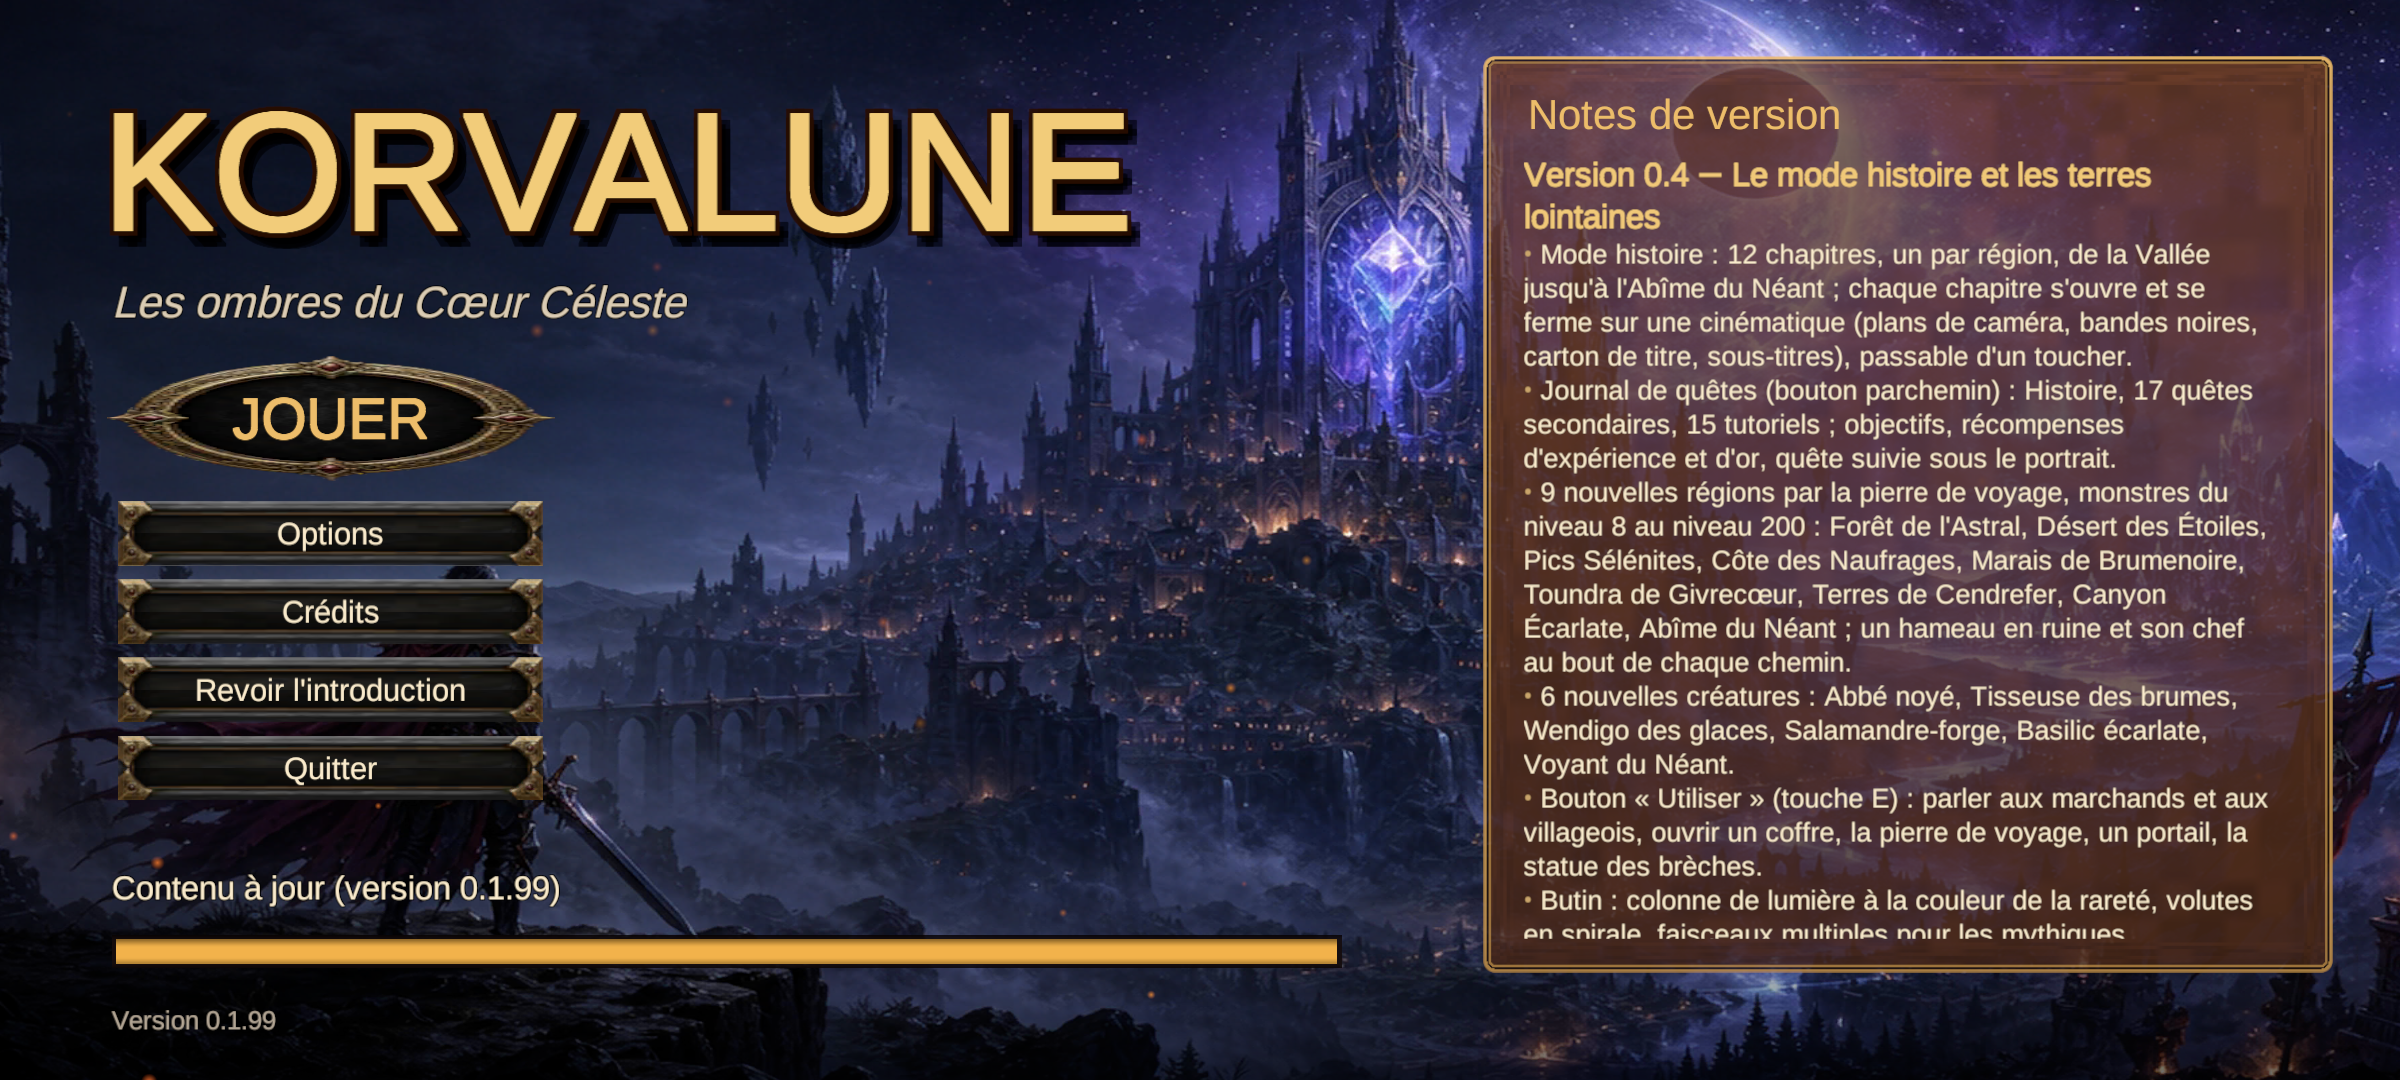
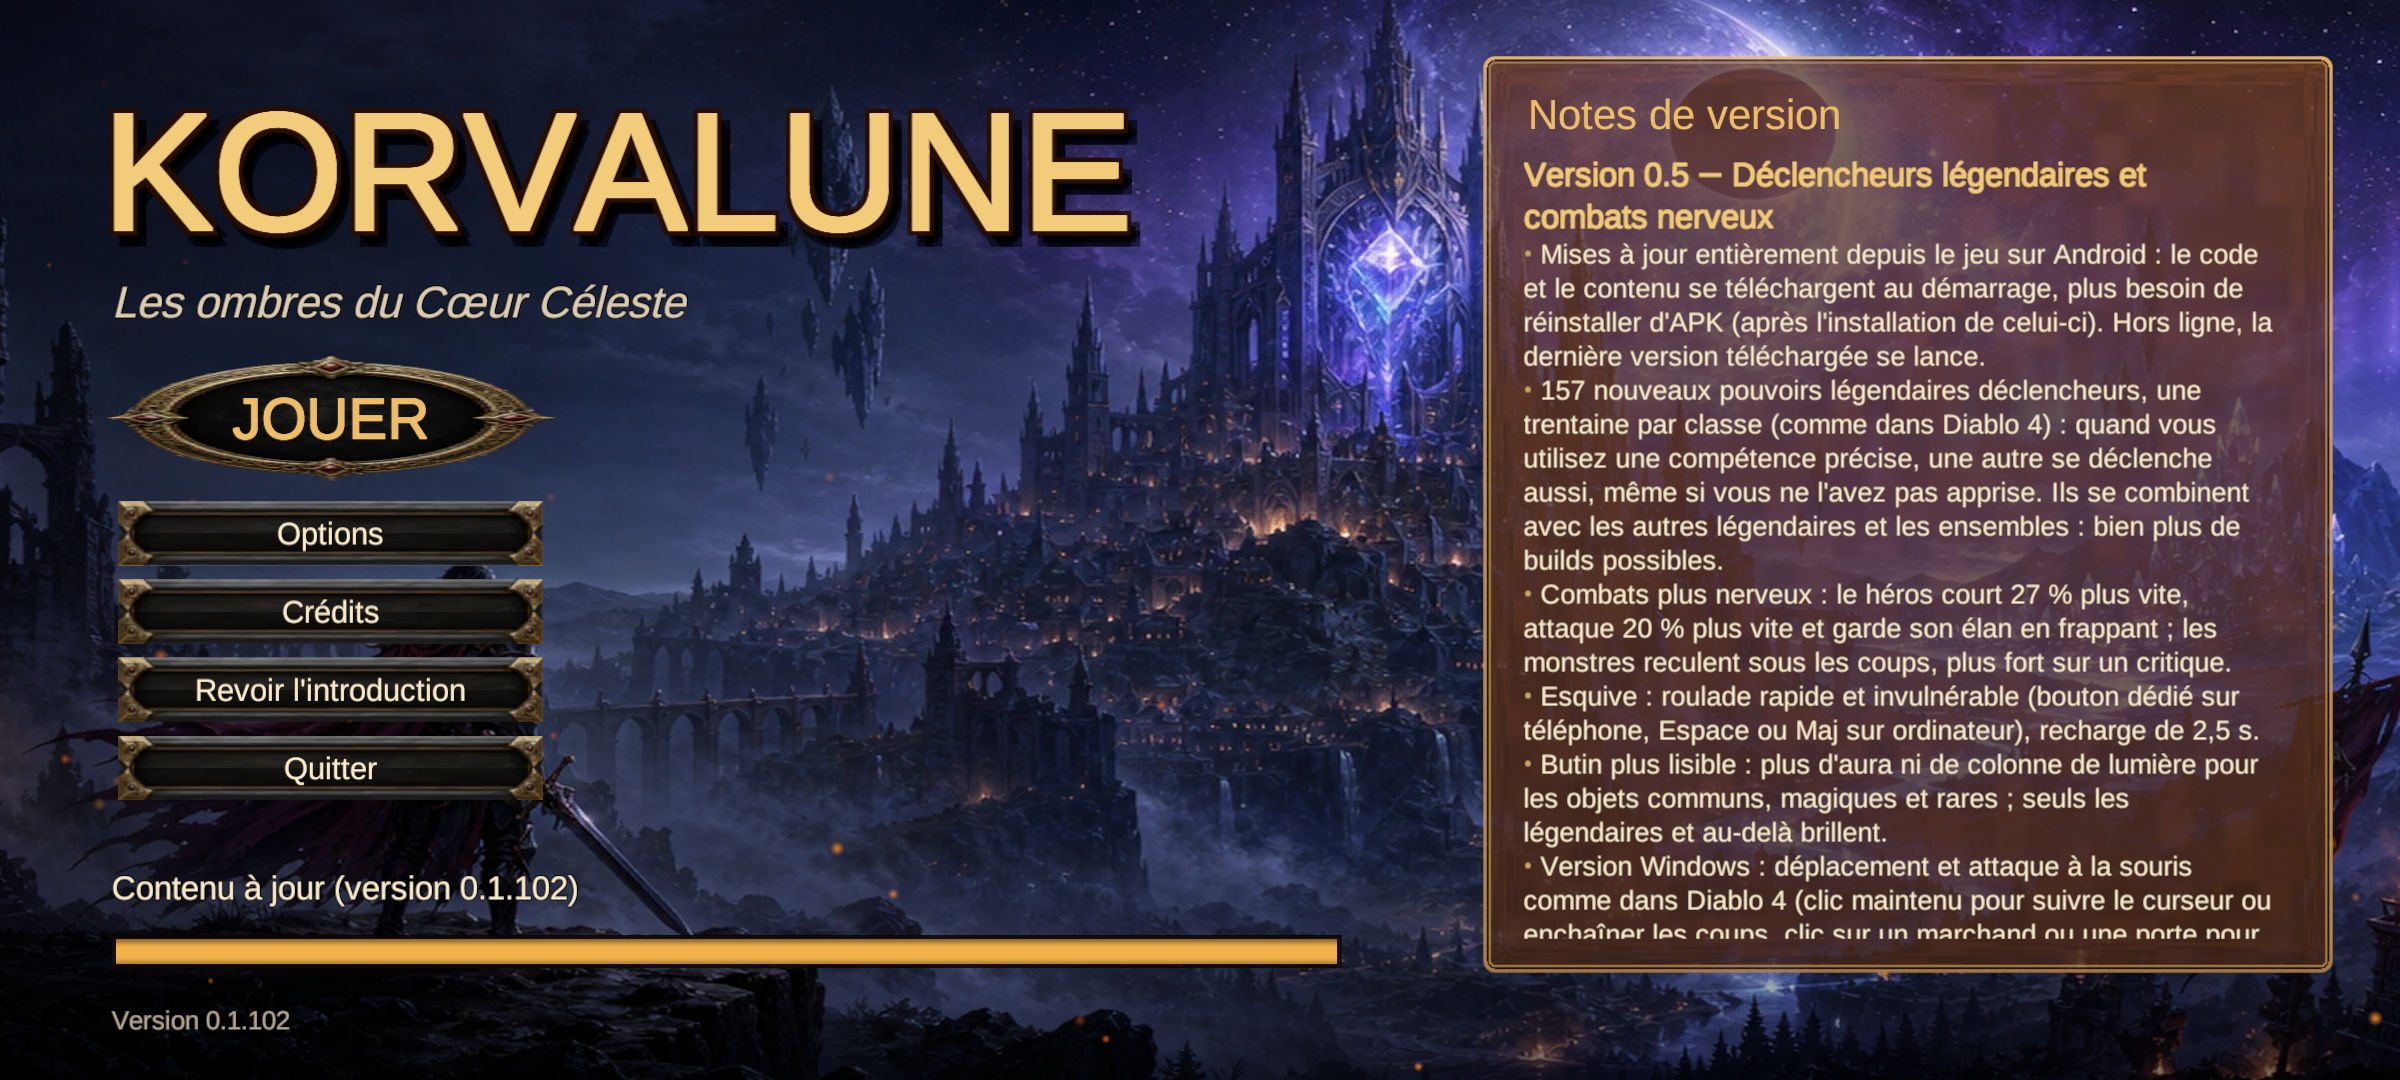
Android : APK construit et testé dans l'émulateur [skip ci]

diff --git a/ci-out/android/build.md b/ci-out/android/build.md
@@ -3,8 +3,8 @@
 - Scènes : Korvalune_Lanceur, Korvalune_Selection, CharacterCreator, Korvalune_Vallee, Korvalune_Crypte, Korvalune_Terriers, Korvalune_Eclipse, Korvalune_Breche, Korvalune_Foret, Korvalune_Desert, Korvalune_Pics, Korvalune_Cote, Korvalune_Marais, Korvalune_Toundra, Korvalune_Volcan, Korvalune_Canyon, Korvalune_Abime
 - Signature : clé Korvalune (mises à jour sans désinstaller)
 - Icône : Assets/Korvalune/Resources/UI/Icone.png
-- Contenu téléchargeable : 100 paquets, 722 Mo (release contenu-99)
-    - scenes : 146.3 Mo
+- Contenu téléchargeable : 100 paquets, 722 Mo (release contenu-102)
+    - scenes : 146.4 Mo
     - art_catalog_models : 58.3 Mo
     - art_catalog_skins : 34.6 Mo
     - art_heroes_varek_f : 19.0 Mo
@@ -16,8 +16,11 @@
     - art_heroes_kaeldraven_f : 17.2 Mo
     - art_heroes_kaeldraven_m : 16.7 Mo
     - art_heroes_tharion_f : 16.7 Mo
-- Résultat : **Succeeded** en 1.9 min, 0 erreur(s), 12 avertissement(s)
-- APK : 89.6 Mo, version 0.1.99
+- HybridCLR : installation 9.0.3 (il2cpp v6000.0.x-9.0.1)
+- HybridCLR : génération en 2.5 min
+- Code mis à jour depuis le jeu : Korvalune.Runtime 653 Ko + 7 métadonnées (9.0 Mo), APK minimal 0
+- Résultat : **Succeeded** en 17.0 min, 0 erreur(s), 12 avertissement(s)
+- APK : 129.1 Mo, version 0.1.102
 
 ## Contenu empaqueté : 35 Mo
 - Texture2D : 23.0 Mo (295)
@@ -25,13 +28,13 @@
 - Cubemap : 1.6 Mo (13)
 - Shader : 1.3 Mo (34)
 - Sprite : 0.1 Mo (210)
-- MonoScript : 0.1 Mo (905)
+- MonoScript : 0.1 Mo (911)
 - Font : 0.1 Mo (1)
 - MonoBehaviour : 0.1 Mo (434)
 - RectTransform : 0.0 Mo (348)
 - GameObject : 0.0 Mo (348)
-- ComputeShader : 0.0 Mo (1)
 - TextAsset : 0.0 Mo (14)
+- ComputeShader : 0.0 Mo (1)
 
 ### Plus gros fichiers sources
 - 8.4 Mo — 
@@ -67,46 +70,46 @@
 
 ## Mémoire pendant la construction (dernières mesures)
 ```
-19:55:00 ram 4857/15983 swap 5/16383  2938112 Unity 455972 dotnet 
-19:55:05 ram 4852/15983 swap 5/16383  2962536 Unity 455972 dotnet 
-19:55:10 ram 4869/15983 swap 5/16383  3000936 Unity 455984 dotnet 
-19:55:15 ram 5081/15983 swap 5/16383  3207280 Unity 455984 dotnet 
-19:55:20 ram 5278/15983 swap 5/16383  3377712 Unity 455984 dotnet 
-19:55:25 ram 5394/15983 swap 5/16383  3535176 Unity 455984 dotnet 
-19:55:30 ram 5513/15983 swap 5/16383  3639716 Unity 455976 dotnet 
-19:55:35 ram 5742/15983 swap 5/16383  3942820 Unity 455976 dotnet 
-19:55:40 ram 5616/15983 swap 5/16383  3797976 Unity 456000 dotnet 
-19:55:45 ram 5513/15983 swap 5/16383  3681460 Unity 456000 dotnet 
-19:55:50 ram 5579/15983 swap 5/16383  3770940 Unity 456000 dotnet 
-19:55:55 ram 5763/15983 swap 5/16383  3911708 Unity 456000 dotnet 
-19:56:00 ram 5750/15983 swap 5/16383  3928108 Unity 456000 dotnet 
-19:56:05 ram 5746/15983 swap 5/16383  3928108 Unity 455976 dotnet 
-19:56:10 ram 5745/15983 swap 5/16383  3928108 Unity 455996 dotnet 
-19:56:15 ram 5891/15983 swap 5/16383  3865196 Unity 455996 dotnet 
-19:56:20 ram 6040/15983 swap 5/16383  3928916 Unity 455996 dotnet 
-19:56:25 ram 6492/15983 swap 5/16383  3929008 Unity 530080 UnityLinker 
-19:56:30 ram 6359/15983 swap 5/16383  3930980 Unity 455976 dotnet 
-19:56:35 ram 7283/15983 swap 5/16383  3931008 Unity 1387384 il2cpp 
-19:56:40 ram 7956/15983 swap 5/16383  3931008 Unity 2235428 il2cpp 
-19:56:45 ram 5953/15983 swap 5/16383  3934344 Unity 455976 dotnet 
-19:56:50 ram 6171/15983 swap 5/16383  3934344 Unity 455976 dotnet 
-19:56:55 ram 6217/15983 swap 5/16383  3934328 Unity 455976 dotnet 
-19:57:00 ram 6234/15983 swap 5/16383  3934312 Unity 455984 dotnet 
-19:57:05 ram 6444/15983 swap 5/16383  3934296 Unity 550724 java 
-19:57:10 ram 6541/15983 swap 5/16383  3934296 Unity 546588 java 
-19:57:16 ram 6542/15983 swap 5/16383  3934284 Unity 651268 java 
-19:57:21 ram 6553/15983 swap 5/16383  3934284 Unity 676832 java 
-19:57:26 ram 7111/15983 swap 5/16383  3934284 Unity 1171612 java 
-19:57:31 ram 7658/15983 swap 5/16383  3934268 Unity 1750848 java 
-19:57:36 ram 7922/15983 swap 5/16383  3934268 Unity 1858936 java 
-19:57:41 ram 7874/15983 swap 5/16383  3934236 Unity 1876896 java 
-19:57:46 ram 7861/15983 swap 5/16383  3934224 Unity 2026260 java 
-19:57:51 ram 7920/15983 swap 5/16383  3934224 Unity 2037816 java 
-19:57:56 ram 7924/15983 swap 5/16383  3934224 Unity 2037296 java 
-19:58:01 ram 8240/15983 swap 5/16383  3934168 Unity 2375768 java 
-19:58:06 ram 8344/15983 swap 5/16383  3935556 Unity 2387004 java 
-19:58:11 ram 3039/15983 swap 5/16383  455972 dotnet 430440 dotnet 
-19:58:16 ram 2059/15983 swap 5/16383  455972 dotnet 430440 dotnet 
+09:46:40 ram 6981/15983 swap 1/16383  4806296 Unity 454608 Unity.ILPP.Runn 
+09:46:45 ram 6891/15983 swap 1/16383  4806296 Unity 456872 Unity.ILPP.Runn 
+09:46:50 ram 7048/15983 swap 1/16383  4806296 Unity 457752 Unity.ILPP.Runn 
+09:46:55 ram 6870/15983 swap 1/16383  4806284 Unity 459440 Unity.ILPP.Runn 
+09:47:01 ram 7136/15983 swap 1/16383  4806284 Unity 460976 Unity.ILPP.Runn 
+09:47:06 ram 6980/15983 swap 1/16383  4806284 Unity 462888 Unity.ILPP.Runn 
+09:47:11 ram 6889/15983 swap 1/16383  4806256 Unity 464608 Unity.ILPP.Runn 
+09:47:16 ram 7010/15983 swap 1/16383  4806256 Unity 465928 Unity.ILPP.Runn 
+09:47:21 ram 7071/15983 swap 1/16383  4806260 Unity 468216 Unity.ILPP.Runn 
+09:47:26 ram 6927/15983 swap 1/16383  4806260 Unity 469688 Unity.ILPP.Runn 
+09:47:31 ram 7023/15983 swap 1/16383  4806260 Unity 470920 Unity.ILPP.Runn 
+09:47:36 ram 7239/15983 swap 369/16383  4514680 Unity 1230608 ld.lld 
+09:47:41 ram 6678/15983 swap 1235/16383  3870196 Unity 2273580 ld.lld 
+09:47:46 ram 5941/15983 swap 1947/16383  3176000 Unity 2855468 ld.lld 
+09:47:52 ram 4332/15983 swap 2528/16383  2645864 Unity 431792 Unity.ILPP.Runn 
+09:47:57 ram 3793/15983 swap 2787/16383  2434604 Unity 408624 Unity.ILPP.Runn 
+09:48:02 ram 4214/15983 swap 2787/16383  2434032 Unity 432444 llvm-objcopy 
+09:48:07 ram 3819/15983 swap 2787/16383  2433744 Unity 419892 Unity.ILPP.Runn 
+09:48:12 ram 3818/15983 swap 2787/16383  2434848 Unity 422924 Unity.ILPP.Runn 
+09:48:17 ram 3933/15983 swap 2787/16383  2434864 Unity 422924 Unity.ILPP.Runn 
+09:48:22 ram 4140/15983 swap 2787/16383  2434884 Unity 423008 Unity.ILPP.Runn 
+09:48:27 ram 4179/15983 swap 2787/16383  2434880 Unity 424856 Unity.ILPP.Runn 
+09:48:32 ram 4384/15983 swap 2787/16383  2434824 Unity 549816 java 
+09:48:37 ram 4539/15983 swap 2787/16383  2434840 Unity 535228 java 
+09:48:42 ram 4554/15983 swap 2787/16383  2434856 Unity 659800 java 
+09:48:47 ram 4556/15983 swap 2787/16383  2433036 Unity 681232 java 
+09:48:52 ram 4984/15983 swap 2787/16383  2432956 Unity 1161848 java 
+09:48:57 ram 5622/15983 swap 2787/16383  2432916 Unity 1803492 java 
+09:49:02 ram 5929/15983 swap 2787/16383  2432816 Unity 1981444 java 
+09:49:07 ram 5699/15983 swap 2787/16383  2432720 Unity 1687292 java 
+09:49:12 ram 5658/15983 swap 2787/16383  2432732 Unity 1735476 java 
+09:49:17 ram 5747/15983 swap 2787/16383  2432732 Unity 1743928 java 
+09:49:22 ram 5611/15983 swap 2787/16383  2431952 Unity 1744908 java 
+09:49:27 ram 5621/15983 swap 2787/16383  2431868 Unity 1745656 java 
+09:49:32 ram 5853/15983 swap 2787/16383  2431656 Unity 1944832 java 
+09:49:37 ram 6055/15983 swap 2787/16383  2431472 Unity 2113936 java 
+09:49:42 ram 5968/15983 swap 2782/16383  2441088 Unity 2056292 java 
+09:49:47 ram 3565/15983 swap 2362/16383  2407604 Unity 193776 MainThread 
+09:49:52 ram 1281/15983 swap 25/16383  193776 MainThread 158432 provjobd3510909 
+09:49:57 ram 1259/15983 swap 25/16383  193776 MainThread 148756 Runner.Worker 
 ```
 ## Noyau (OOM)
 ```

diff --git a/ci-out/android/test.md b/ci-out/android/test.md
@@ -1,7 +1,7 @@
 # Test de l'APK dans un émulateur Android (API 30, x86_64)
 
 - Android 11
-- APK : 89.6 Mo
+- APK : 129.1 Mo
 - ✅ Installation
 - ✅ Jeu en cours d'exécution à 20 s (capture ecran_20s.png)
 - ✅ Jeu en cours d'exécution à 45 s (capture ecran_45s.png)
@@ -13,11 +13,6 @@
     [Korvalune] partie automatique : activée
     [Korvalune][test] lanceur prêt : on joue
     [Korvalune][test] chargement de la scène « Korvalune_Vallee » avec Testeur
-    [Korvalune][test] chargement 90 %
-    [Korvalune][test] chargement 90 %
-    [Korvalune][test] chargement 90 %
-    [Korvalune][test] chargement 90 %
-    [Korvalune][test] chargement 90 %
     [Korvalune][test] chargement 90 %
     [Korvalune][test] chargement 90 %
     [Korvalune][test] chargement 90 %
